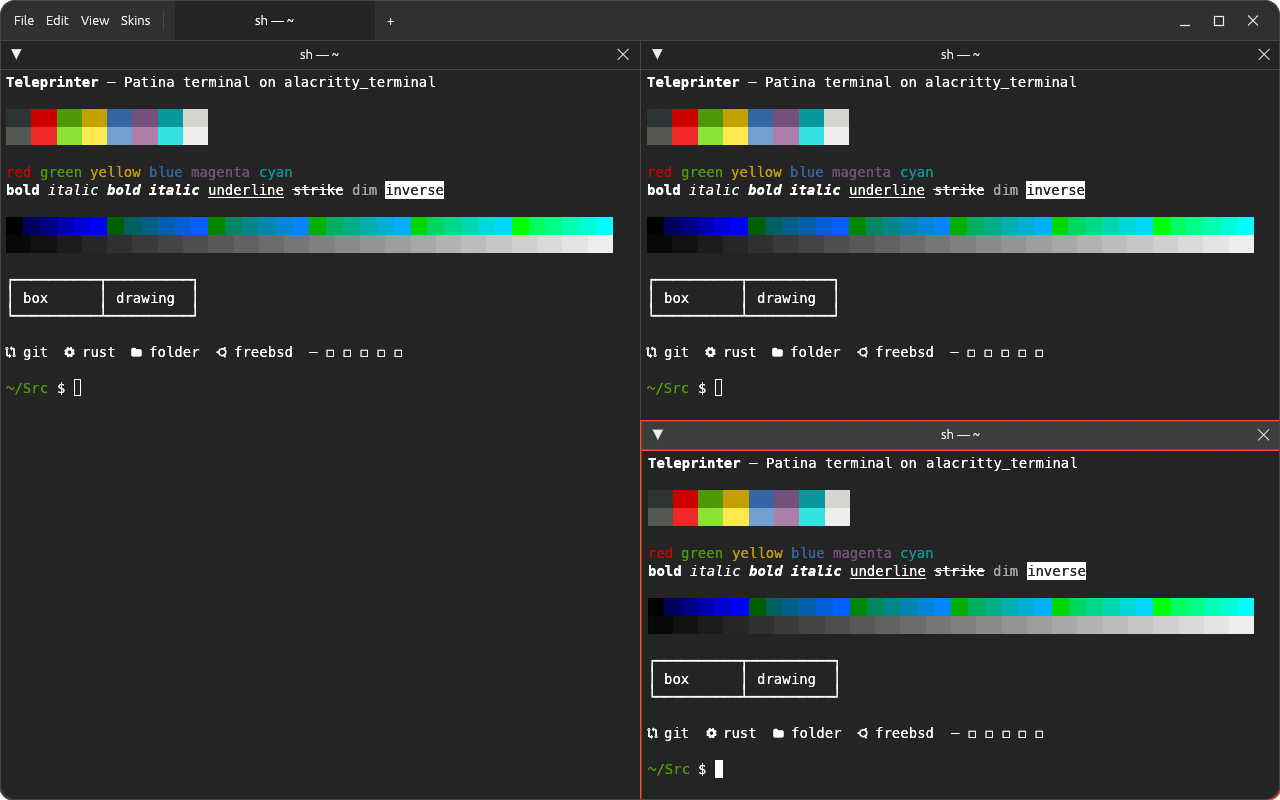
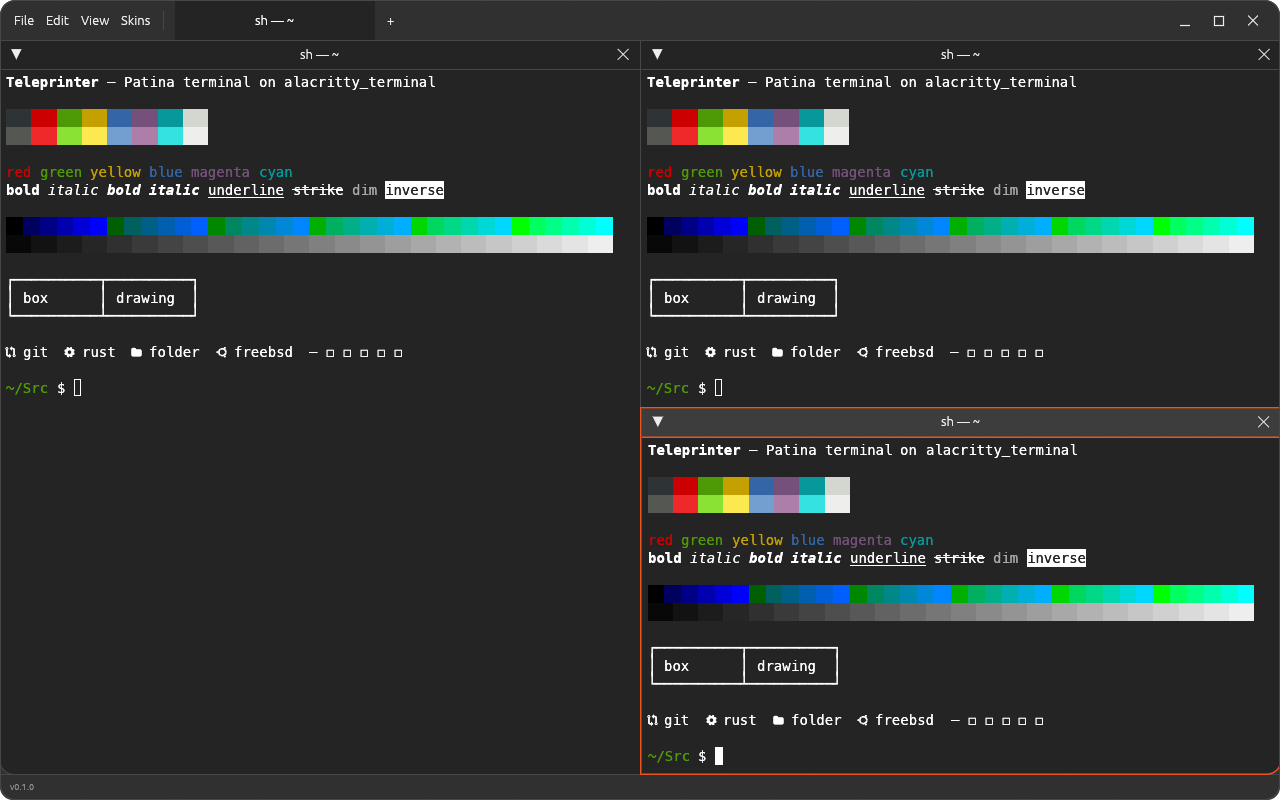
A status bar, and Patina's skin menu (its ADR-0016, ADR-0017)
A status bar along the bottom, holding both bottom corners: the
version, then the latest message. Skins that failed to load show there
in red, and problems in a skin's terminal colours, which fall back, in
yellow, each listed on hover, instead of in the Skins menu.

The Skins menu gains the rest of Patina's: user skins as
"Name — Author" with their path on hover; Follow desktop, Light and Dark
for skins that follow the desktop (light_dark in the config); Reload
skins, Copy built-in skins to folder and Open skins folder. It sizes to
its widest entry.

Changed region(s): [[0.5, 0.5, 1.0, 0.9688], [0.7812, 0.875, 0.8125, 0.9375], [0.6875, 0.875, 0.7188, 0.9375]]

diff --git a/teleprinter/src/app.rs b/teleprinter/src/app.rs
@@ -20,6 +20,8 @@ use crate::view::{self, Requests, ViewState};
 
 /// The skin used until the user picks one: stock egui, following the desktop.
 const HOME_SKIN: &str = "Default";
+/// The app's name for its config folder, and so its skins folder.
+const APP: &str = "teleprinter";
 
 const MIN_FONT: f32 = 8.0;
 const MAX_FONT: f32 = 32.0;
@@ -41,6 +43,10 @@ const SWAP_AFTER: f64 = 0.6;
 enum Action {
     Quit,
     SetSkin(String),
+    SetLightDark(String),
+    ReloadSkins,
+    CopySkins,
+    OpenSkinsFolder,
     SystemTitleBar(bool),
     FontSize(f32),
     Gap(f32),
@@ -79,6 +85,8 @@ pub struct App {
     custom_frame: bool,
     skins: Vec<Skin>,
     skin_errors: Vec<String>,
+    /// The latest message for the status bar.
+    status: Option<Status>,
     /// Every tab's panes.
     panes: HashMap<PaneId, Pane>,
     /// Never empty: closing the last tab closes the window.
@@ -115,8 +123,7 @@ impl App {
         crate::fonts::install(&cc.egui_ctx);
         // Disable egui's default Ctrl+Q (Cmd+Q on Mac) quit shortcut
         cc.egui_ctx.options_mut(|o| o.quit_shortcuts.clear());
-        let dirs: Vec<_> = skin::app_dir("teleprinter").into_iter().collect();
-        let (skins, skin_errors) = skin::load_all(skin::BUILT_IN, &dirs);
+        let (skins, skin_errors) = load_skins();
         if let Ok(name) = std::env::var("TELEPRINTER_SKIN") {
             config.skin = Some(name); // for this run only: never saved
         }
@@ -131,6 +138,7 @@ impl App {
             config,
             skins,
             skin_errors,
+            status: None,
             panes: HashMap::new(),
             tabs: Vec::new(),
             tab: 0,
@@ -170,7 +178,7 @@ impl App {
                 set_collapsed(&cc.egui_ctx, id, true);
             }
         }
-        app.skin().apply(&cc.egui_ctx);
+        app.apply_skin(&cc.egui_ctx);
         app
     }
 
@@ -369,6 +377,14 @@ impl App {
         find(self.config.skin.as_deref().unwrap_or(HOME_SKIN)).or_else(|| find(HOME_SKIN)).unwrap_or(&self.skins[0])
     }
 
+    fn apply_skin(&self, ctx: &egui::Context) {
+        let skin = self.skin();
+        skin.apply(ctx);
+        if skin.follows_desktop() {
+            ctx.set_theme(self.config.theme());
+        }
+    }
+
     /// The space between panes and around them, as the config sets it.
     fn gap(&self) -> f32 {
         self.config.gap.clamp(0.0, MAX_GAP)
@@ -388,7 +404,7 @@ impl App {
     }
 
     /// Left side of the title bar: word menus (Patina's ADR-0006).
-    fn menus(&self, ui: &mut egui::Ui, actions: &mut Vec<Action>, problems: &[String]) {
+    fn menus(&self, ui: &mut egui::Ui, actions: &mut Vec<Action>) {
         ui.menu_button("File", |ui| {
             if ui.button("Split Right").clicked() {
                 actions.push(Action::Split(Dir::Right));
@@ -448,15 +464,92 @@ impl App {
                 actions.push(Action::SystemTitleBar(system));
             }
         });
+        // Patina's skin menu (its ADR-0017): only controls; what they did goes to the status bar.
         ui.menu_button("Skins", |ui| {
-            let current = self.skin().name.clone();
+            // Size the menu to its widest entry instead of wrapping entries to its first width.
+            ui.style_mut().wrap_mode = Some(egui::TextWrapMode::Extend);
+            let current = self.skin();
             for skin in &self.skins {
-                if ui.radio(skin.name == current, &skin.name).clicked() {
+                let label = match &skin.author {
+                    Some(author) if skin.path.is_some() => format!("{} — {author}", skin.name),
+                    _ => skin.name.clone(),
+                };
+                let resp = ui.radio(skin.name == current.name, label);
+                let resp = match &skin.path {
+                    Some(path) => resp.on_hover_text(path.display().to_string()),
+                    None => resp,
+                };
+                if resp.clicked() {
                     actions.push(Action::SetSkin(skin.name.clone()));
                 }
             }
-            for error in self.skin_errors.iter().chain(problems) {
-                ui.colored_label(ui.visuals().error_fg_color, error);
+            ui.separator();
+            ui.add_enabled_ui(current.follows_desktop(), |ui| {
+                for (value, label) in [("system", "Follow desktop"), ("light", "Light"), ("dark", "Dark")] {
+                    // An unset or unknown setting follows the desktop.
+                    let on = match value {
+                        "system" => !matches!(self.config.light_dark.as_str(), "light" | "dark"),
+                        _ => self.config.light_dark == value,
+                    };
+                    if ui.radio(on, label).clicked() {
+                        actions.push(Action::SetLightDark(value.into()));
+                    }
+                }
+            });
+            ui.separator();
+            if ui.button("Reload skins").clicked() {
+                actions.push(Action::ReloadSkins);
+            }
+            if ui
+                .button("Copy built-in skins to folder")
+                .on_hover_text("Puts editable copies in the skins folder; never overwrites existing files")
+                .clicked()
+            {
+                actions.push(Action::CopySkins);
+            }
+            let folder = skin::app_dir(APP).map(|d| d.display().to_string()).unwrap_or_default();
+            if ui.button("Open skins folder").on_hover_text(folder).clicked() {
+                actions.push(Action::OpenSkinsFolder);
+            }
+        });
+    }
+
+    /// Rescans the built-in and user skins; the config keeps the one in use by name.
+    fn reload_skins(&mut self, ctx: &egui::Context) {
+        (self.skins, self.skin_errors) = load_skins();
+        self.apply_skin(ctx);
+    }
+
+    /// The version on the left, then the latest message, coloured by its level. Skins that failed
+    /// to load, and colours the skin gets wrong (`problems`, which have fallbacks, so they warn),
+    /// stay there, ahead of newer messages, until they're fixed.
+    fn status_bar(&self, ui: &mut egui::Ui, problems: &[String]) {
+        ui.horizontal(|ui| {
+            // Just the version: the app's name is already in the title bar and the window list,
+            // so repeating it here adds nothing.
+            ui.label(egui::RichText::new(format!("v{}", env!("CARGO_PKG_VERSION"))).weak().small());
+            let plural = |n: usize| if n == 1 { "" } else { "s" };
+            let lasting = if !self.skin_errors.is_empty() {
+                let n = self.skin_errors.len();
+                Some((Status::error(format!("Couldn't load {n} skin{}", plural(n))), self.skin_errors.join("\n")))
+            } else if !problems.is_empty() {
+                let n = problems.len();
+                Some((Status::warn(format!("{n} problem{} in this skin's colours", plural(n))), problems.join("\n")))
+            } else {
+                None
+            };
+            let shown = lasting.as_ref().map(|(s, _)| s).or(self.status.as_ref());
+            if let Some(status) = shown {
+                ui.separator();
+                let color = match status.level {
+                    Level::Error => ui.visuals().error_fg_color,
+                    Level::Warn => ui.visuals().warn_fg_color,
+                    Level::Info => ui.visuals().weak_text_color(),
+                };
+                let resp = ui.label(egui::RichText::new(&status.text).color(color).small());
+                if let Some((_, details)) = &lasting {
+                    resp.on_hover_text(details);
+                }
             }
         });
     }
@@ -870,7 +963,7 @@ impl eframe::App for App {
             TitleBar::new("", &style).custom(self.custom_frame).menu_bar(true).show(
                 ui,
                 |ui| {
-                    self.menus(ui, &mut actions, &problems);
+                    self.menus(ui, &mut actions);
                     self.tab_strip(ui, span, &style, &mut actions);
                 },
                 // A terminal's output is the shell's; nothing goes on the right.
@@ -879,12 +972,17 @@ impl eframe::App for App {
         });
 
         // The tiles sit on the window's own panel colour, in the gaps between them.
+        // Patina's status bar (its ADR-0016), holding both bottom corners.
+        egui::Panel::bottom("status")
+            .frame(
+                egui::Frame::side_top_panel(ui.style())
+                    .inner_margin(egui::Margin::symmetric(10, 4))
+                    .corner_radius(egui::CornerRadius { sw: radius, se: radius, ..Default::default() }),
+            )
+            .show(ui, |ui| self.status_bar(ui, &problems));
+
         let desktop = egui::CentralPanel::default()
-            .frame(egui::Frame::central_panel(ui.style()).inner_margin(self.gap()).corner_radius(egui::CornerRadius {
-                sw: radius,
-                se: radius,
-                ..Default::default()
-            }))
+            .frame(egui::Frame::central_panel(ui.style()).inner_margin(self.gap()))
             .show(ui, |ui| {
                 // The background between and below the tiles: right-click for a new pane.
                 let rect = ui.max_rect();
@@ -910,8 +1008,34 @@ impl eframe::App for App {
                 Action::Quit => ctx.send_viewport_cmd(egui::ViewportCommand::Close),
                 Action::SetSkin(name) => {
                     self.config.skin = Some(name);
-                    self.skin().apply(&ctx);
+                    self.apply_skin(&ctx);
                     self.save_config();
+                }
+                Action::SetLightDark(value) => {
+                    self.config.light_dark = value;
+                    self.apply_skin(&ctx);
+                    self.save_config();
+                }
+                Action::ReloadSkins => self.reload_skins(&ctx),
+                Action::CopySkins => {
+                    let copied = skin::app_dir(APP)
+                        .ok_or_else(|| "no config folder".to_string())
+                        .and_then(|dir| skin::export_built_ins(&dir, skin::BUILT_IN));
+                    self.status = Some(match copied {
+                        Ok(export) => {
+                            // The copies share the built-ins' names, so after a reload they're
+                            // the versions in use.
+                            self.reload_skins(&ctx);
+                            Status::info(export_summary(&export.copied, &export.skipped))
+                        }
+                        Err(e) => Status::error(format!("Couldn't copy skins: {e}")),
+                    });
+                }
+                Action::OpenSkinsFolder => {
+                    if let Some(dir) = skin::app_dir(APP) {
+                        let _ = std::fs::create_dir_all(&dir);
+                        let _ = patina::open::path(&dir);
+                    }
                 }
                 Action::SystemTitleBar(on) => {
                     self.custom_frame = !on;
@@ -999,6 +1123,49 @@ fn pane_id(id: PaneId) -> Id {
     Id::new(("pane", id))
 }
 
+/// Patina's built-in skins and Teleprinter's own folder.
+fn load_skins() -> (Vec<Skin>, Vec<String>) {
+    skin::load_all(skin::BUILT_IN, &skin::app_dir(APP).into_iter().collect::<Vec<_>>())
+}
+
+/// A message for the status bar.
+struct Status {
+    level: Level,
+    text: String,
+}
+
+enum Level {
+    Error,
+    Warn,
+    Info,
+}
+
+impl Status {
+    fn error(text: impl Into<String>) -> Self {
+        Status { level: Level::Error, text: text.into() }
+    }
+
+    fn warn(text: impl Into<String>) -> Self {
+        Status { level: Level::Warn, text: text.into() }
+    }
+
+    fn info(text: impl Into<String>) -> Self {
+        Status { level: Level::Info, text: text.into() }
+    }
+}
+
+/// What Copy built-in skins did, for the status bar.
+fn export_summary(copied: &[String], skipped: &[String]) -> String {
+    let mut parts = Vec::new();
+    if !copied.is_empty() {
+        parts.push(format!("Copied {}", copied.join(", ")));
+    }
+    if !skipped.is_empty() {
+        parts.push(format!("kept your existing {}", skipped.join(", ")));
+    }
+    parts.join("; ")
+}
+
 #[cfg(test)]
 mod tests {
     use super::*;
@@ -1019,6 +1186,7 @@ mod tests {
             custom_frame: true,
             skins,
             skin_errors: Vec::new(),
+            status: None,
             panes: HashMap::from([(1, pane()), (2, pane())]),
             tabs: vec![Tab { tree, active: 1 }],
             tab: 0,

diff --git a/teleprinter/src/config.rs b/teleprinter/src/config.rs
@@ -8,6 +8,8 @@ use serde::{Deserialize, Serialize};
 #[serde(default)]
 pub struct Config {
     pub skin: Option<String>,
+    /// "light" or "dark" while the skin follows the desktop; anything else follows it.
+    pub light_dark: String,
     pub system_title_bar: bool,
     pub font_size: f32,
     /// Space between panes, and around them, in points; 0 has them touch.
@@ -18,7 +20,7 @@ pub struct Config {
 
 impl Default for Config {
     fn default() -> Self {
-        Self { skin: None, system_title_bar: false, font_size: 14.0, gap: 0.0, pane_title_height: 28.0 }
+        Self { skin: None, light_dark: "system".into(), system_title_bar: false, font_size: 14.0, gap: 0.0, pane_title_height: 28.0 }
     }
 }
 
@@ -29,6 +31,14 @@ fn path() -> Option<PathBuf> {
 impl Config {
     pub fn load() -> Self {
         path().and_then(|p| std::fs::read_to_string(p).ok()).and_then(|t| toml::from_str(&t).ok()).unwrap_or_default()
+    }
+
+    pub fn theme(&self) -> egui::ThemePreference {
+        match self.light_dark.as_str() {
+            "light" => egui::ThemePreference::Light,
+            "dark" => egui::ThemePreference::Dark,
+            _ => egui::ThemePreference::System,
+        }
     }
 
     pub fn save(&self) {

diff --git a/teleprinter/CLAUDE.md b/teleprinter/CLAUDE.md
@@ -50,7 +50,7 @@ and quits, `TELEPRINTER_SPLITS=right,down` splits at start, `TELEPRINTER_TABS=3`
   `packaging/claude/teleprinter-panes/` is the Claude Code skill that uses it (nvim code tours);
   symlink it into `~/.claude/skills/`. `packaging/claude/tfork/` (`/tfork`) forks a Claude
   session into a pane.
-- `src/config.rs`: `~/.config/teleprinter/config.toml` (skin, system title bar, font size, gap between panes,
+- `src/config.rs`: `~/.config/teleprinter/config.toml` (skin, light/dark, system title bar, font size, gap between panes,
   pane title bar height).
 
 ## Gotchas
